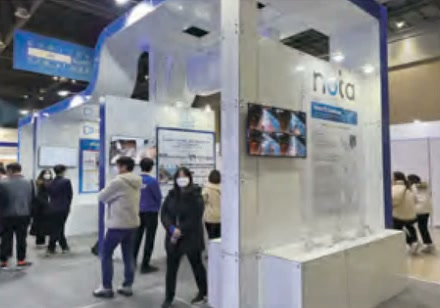
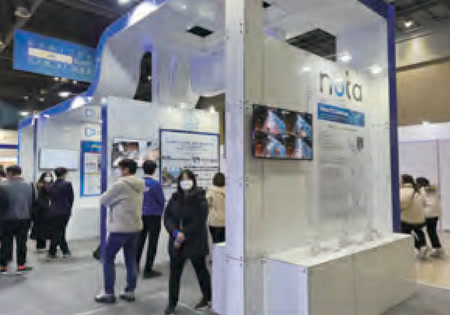
이미지를 형 원본 해상도로 교체 (상단 배너, Projects, 사업분야 카드, 전시 사진)

diff --git a/index.html b/index.html
@@ -13,8 +13,8 @@
 <link rel="stylesheet" href="https://cdn.jsdelivr.net/gh/orioncactus/pretendard@v1.3.9/dist/web/variable/pretendardvariable.css">
 <link rel="preconnect" href="https://fonts.googleapis.com">
 <link rel="stylesheet" href="https://fonts.googleapis.com/css2?family=DM+Sans:opsz,wght@9..40,400..800&display=swap">
-<link rel="stylesheet" href="style.css?v=202611200904">
-<link rel="stylesheet" href="feel.css?v=202611200904">
+<link rel="stylesheet" href="style.css?v=202611200909">
+<link rel="stylesheet" href="feel.css?v=202611200909">
 </head>
 <body>
 
@@ -165,9 +165,9 @@
     <div class="slider">
       <div class="track">
         <a class="pcard" href="program01.html"><div class="ph"><img src="assets/biz_aisw2.jpg" alt="" style="object-position:96% 50%"></div><span><small>BUSINESS AREA</small>AI·SW교육</span><b class="circ"><i class="chev"></i></b></a>
-        <a class="pcard" href="program03.html"><div class="ph"><img src="assets/biz_creative.jpg" alt="" style="object-position:50% 50%"></div><span><small>BUSINESS AREA</small>창의융합 진로·진학 교육</span><b class="circ"><i class="chev"></i></b></a>
+        <a class="pcard" href="program03.html"><div class="ph"><img src="assets/biz_creative.jpg?v=r2" alt="" style="object-position:50% 50%"></div><span><small>BUSINESS AREA</small>창의융합 진로·진학 교육</span><b class="circ"><i class="chev"></i></b></a>
         <a class="pcard" href="program04.html"><div class="ph"><img src="assets/biz_compass_v.jpg" alt="" style="object-position:50% 62%"></div><span><small>BUSINESS AREA</small>Edu Camp&amp;Festa/진로박람회</span><b class="circ"><i class="chev"></i></b></a>
-        <a class="pcard" href="program02.html"><div class="ph"><img src="assets/biz_public_sq.jpg" alt="" class="fitw"></div><span><small>BUSINESS AREA</small>교육분야 공공서비스</span><b class="circ"><i class="chev"></i></b></a>
+        <a class="pcard" href="program02.html"><div class="ph"><img src="assets/biz_public_sq.jpg?v=r2" alt="" class="fitw"></div><span><small>BUSINESS AREA</small>교육분야 공공서비스</span><b class="circ"><i class="chev"></i></b></a>
       </div>
     </div>
     <div class="ctrl"><div class="dots"></div><div class="arrows"><button class="prev" aria-label="이전"><i class="chev l"></i></button><button class="next" aria-label="다음"><i class="chev"></i></button></div></div>
@@ -177,8 +177,8 @@
   <section class="wrap block">
     <div class="head rv"><div><p class="eyebrow">PROJECTS</p><h2>Projects</h2></div><a class="more" href="community02.html">홍보자료 보기<span class="circ"><i class="chev"></i></span></a></div>
     <div class="stories">
-      <a class="story big rv" href="https://kiumin.cafe24.com/default/community/community02.php?com_board_basic=read_form&amp;com_board_idx=12&amp;sub=02&amp;com_board_id=3" target="_blank" rel="noopener"><div class="ph"><img src="assets/m-op01_ari.jpg" alt="" loading="lazy"></div><div class="txt"><small>PROJECT | 2025</small><h3>2025 디지털 새싹<i class="chev"></i></h3><p>청소년이 디지털 인재로 성장할 수 있도록 돕는 SW·AI 교육</p></div></a>
-      <a class="story big rv" href="https://kiumin.cafe24.com/default/community/community02.php?com_board_basic=read_form&amp;com_board_idx=13&amp;sub=02&amp;com_board_id=3" target="_blank" rel="noopener"><div class="ph"><img src="assets/m-op02_ari2.jpg" alt="" loading="lazy"></div><div class="txt"><small>PROJECT | 2025</small><h3>2025 찾아가는 학교 컨설팅<i class="chev"></i></h3><p>디지털 기반 교육 혁신 실천을 위한 맞춤형 학교 컨설팅</p></div></a>
+      <a class="story big rv" href="https://kiumin.cafe24.com/default/community/community02.php?com_board_basic=read_form&amp;com_board_idx=12&amp;sub=02&amp;com_board_id=3" target="_blank" rel="noopener"><div class="ph"><img src="assets/m-op01_ari.jpg?v=r2" alt="" loading="lazy"></div><div class="txt"><small>PROJECT | 2025</small><h3>2025 디지털 새싹<i class="chev"></i></h3><p>청소년이 디지털 인재로 성장할 수 있도록 돕는 SW·AI 교육</p></div></a>
+      <a class="story big rv" href="https://kiumin.cafe24.com/default/community/community02.php?com_board_basic=read_form&amp;com_board_idx=13&amp;sub=02&amp;com_board_id=3" target="_blank" rel="noopener"><div class="ph"><img src="assets/m-op02_ari2.jpg?v=r2" alt="" loading="lazy"></div><div class="txt"><small>PROJECT | 2025</small><h3>2025 찾아가는 학교 컨설팅<i class="chev"></i></h3><p>디지털 기반 교육 혁신 실천을 위한 맞춤형 학교 컨설팅</p></div></a>
       <a class="story rv" href="program02.html"><div class="ph"><img src="assets/m-op03.jpg" alt="" loading="lazy"></div><div class="txt"><small>PROJECT | 2024</small><h3>2024 지역사회연계직업체험<i class="chev"></i></h3><p>지역 간 진로체험 기회 격차를 해소하기 위한 프로그램</p></div></a>
       <a class="story rv" href="program04.html"><div class="ph"><img src="assets/m-op04.jpg" alt="" loading="lazy"></div><div class="txt"><small>PROJECT | 2024</small><h3>2024 곡성꿈놀자학교 진로박람회<i class="chev"></i></h3><p>관내 초등학생들을 위한 진로체험의 장</p></div></a>
       <a class="story rv" href="program04.html"><div class="ph"><img src="assets/m-op05.jpg" alt="" loading="lazy"></div><div class="txt"><small>PROJECT | 2024</small><h3>2024 AI비전캠프 현장체험학습<i class="chev"></i></h3><p>4차산업 시대 핵심기술인 인공지능 관련 현장체험학습</p></div></a>
@@ -265,7 +265,7 @@
     <a class="dlg-cta" href="https://m.site.naver.com/2dWd8" target="_blank" rel="noopener">AI 교육 플랫폼 · 지금 수강 신청<span class="circ"><i class="ext"></i></span></a>
   </div>
 </dialog>
-<script src="main.js?v=202611200904"></script>
-<script src="hero.js?v=202611200904"></script>
+<script src="main.js?v=202611200909"></script>
+<script src="hero.js?v=202611200909"></script>
 </body>
 </html>

diff --git a/business01.html b/business01.html
@@ -8,9 +8,9 @@
 <link rel="stylesheet" href="https://cdn.jsdelivr.net/gh/orioncactus/pretendard@v1.3.9/dist/web/variable/pretendardvariable.css">
 <link rel="preconnect" href="https://fonts.googleapis.com">
 <link rel="stylesheet" href="https://fonts.googleapis.com/css2?family=DM+Sans:opsz,wght@9..40,400..800&display=swap">
-<link rel="stylesheet" href="style.css?v=202611200904">
-<link rel="stylesheet" href="feel.css?v=202611200904">
-<link rel="stylesheet" href="sub.css?v=202611200904">
+<link rel="stylesheet" href="style.css?v=202611200909">
+<link rel="stylesheet" href="feel.css?v=202611200909">
+<link rel="stylesheet" href="sub.css?v=202611200909">
 </head>
 <body>
 
@@ -65,7 +65,7 @@
 <main id="top">
 
   <section class="sub-hero">
-    <img src="assets/subhero2_business.jpg" alt="">
+    <img src="assets/subhero2_business.jpg?v=r2" alt="">
     <div class="wrap">
       <nav class="crumb" aria-label="현재 위치"><a href="index.html">HOME</a><i></i><span>BUSINESS</span><i></i><span>사업분야</span></nav>
       <p class="en">BUSINESS</p>
@@ -106,8 +106,8 @@
     <div class="biz-h rv"><p class="eyebrow">EVENT &amp; EXHIBITION</p><h2 class="sub-t">전시 행사 / 대행 용역 운영</h2><p class="biz-lead">기업 · 단체 · 기관의 성과확산과 미래 성장을 가속화하는 액셀러레이팅 행사 및 전시회 운영 서비스를 제공합니다.</p></div>
     <p class="ev-cats rv"><span>전시회</span><span>성과공유회</span><span>IR</span><span>기업행사</span><span>교육분야행사</span></p>
     <div class="ev-body">
-    <div class="ev-circles"><figure class="ev-c rv"><div class="ph"><img src="assets/sub_business/ev2/c1.jpg" alt="FINAL DEMO DAY &amp; HOME COMING DAY" loading="lazy"></div><figcaption><small>유튜브 온라인 송출</small><b>FINAL DEMO DAY &amp; HOME COMING DAY</b></figcaption></figure><figure class="ev-c rv"><div class="ph"><img src="assets/sub_business/ev2/c2.jpg" alt="컬쳐테크 Challenge DEMODAY" loading="lazy"></div><figcaption><small>IR 대회운영</small><b>컬쳐테크 Challenge DEMODAY</b></figcaption></figure><figure class="ev-c rv"><div class="ph"><img src="assets/sub_business/ev2/c3.jpg" alt="GDIN 디지털 오픈랩 성과 전시회" loading="lazy"></div><figcaption><small>스케치 영상 제작</small><b>GDIN 디지털 오픈랩 성과 전시회</b></figcaption></figure></div>
-    <div class="ev-grid rv"><div class="ph"><img src="assets/sub_business/ev2/g1.jpg" alt="" loading="lazy"></div><div class="ph"><img src="assets/sub_business/ev2/g2.jpg" alt="" loading="lazy"></div><div class="ph"><img src="assets/sub_business/ev2/g3.jpg" alt="" loading="lazy"></div><div class="ph"><img src="assets/sub_business/ev2/g4.jpg" alt="" loading="lazy"></div><div class="ph"><img src="assets/sub_business/ev2/g5.jpg" alt="" loading="lazy"></div><div class="ph"><img src="assets/sub_business/ev2/g6.jpg" alt="" loading="lazy"></div><div class="ph"><img src="assets/sub_business/ev2/g7.jpg" alt="" loading="lazy"></div><div class="ph"><img src="assets/sub_business/ev2/g8.jpg" alt="" loading="lazy"></div><div class="ph"><img src="assets/sub_business/ev2/g9.jpg" alt="" loading="lazy"></div><div class="ph"><img src="assets/sub_business/ev2/g10.jpg" alt="" loading="lazy"></div><div class="ph"><img src="assets/sub_business/ev2/g11.jpg" alt="" loading="lazy"></div><div class="ph"><img src="assets/sub_business/ev2/g12.jpg" alt="" loading="lazy"></div>
+    <div class="ev-circles"><figure class="ev-c rv"><div class="ph"><img src="assets/sub_business/ev2/c1.jpg?v=r2" alt="FINAL DEMO DAY &amp; HOME COMING DAY" loading="lazy"></div><figcaption><small>유튜브 온라인 송출</small><b>FINAL DEMO DAY &amp; HOME COMING DAY</b></figcaption></figure><figure class="ev-c rv"><div class="ph"><img src="assets/sub_business/ev2/c2.jpg?v=r2" alt="컬쳐테크 Challenge DEMODAY" loading="lazy"></div><figcaption><small>IR 대회운영</small><b>컬쳐테크 Challenge DEMODAY</b></figcaption></figure><figure class="ev-c rv"><div class="ph"><img src="assets/sub_business/ev2/c3.jpg?v=r2" alt="GDIN 디지털 오픈랩 성과 전시회" loading="lazy"></div><figcaption><small>스케치 영상 제작</small><b>GDIN 디지털 오픈랩 성과 전시회</b></figcaption></figure></div>
+    <div class="ev-grid rv"><div class="ph"><img src="assets/sub_business/ev2/g1.jpg?v=r2" alt="" loading="lazy"></div><div class="ph"><img src="assets/sub_business/ev2/g2.jpg?v=r2" alt="" loading="lazy"></div><div class="ph"><img src="assets/sub_business/ev2/g3.jpg?v=r2" alt="" loading="lazy"></div><div class="ph"><img src="assets/sub_business/ev2/g4.jpg?v=r2" alt="" loading="lazy"></div><div class="ph"><img src="assets/sub_business/ev2/g5.jpg?v=r2" alt="" loading="lazy"></div><div class="ph"><img src="assets/sub_business/ev2/g6.jpg?v=r2" alt="" loading="lazy"></div><div class="ph"><img src="assets/sub_business/ev2/g7.jpg?v=r2" alt="" loading="lazy"></div><div class="ph"><img src="assets/sub_business/ev2/g8.jpg?v=r2" alt="" loading="lazy"></div><div class="ph"><img src="assets/sub_business/ev2/g9.jpg?v=r2" alt="" loading="lazy"></div><div class="ph"><img src="assets/sub_business/ev2/g10.jpg?v=r2" alt="" loading="lazy"></div><div class="ph"><img src="assets/sub_business/ev2/g11.jpg?v=r2" alt="" loading="lazy"></div><div class="ph"><img src="assets/sub_business/ev2/g12.jpg?v=r2" alt="" loading="lazy"></div>
     </div></div>
   </section>
 
@@ -146,6 +146,6 @@
 
 
 
-<script src="main.js?v=202611200904"></script>
+<script src="main.js?v=202611200909"></script>
 </body>
 </html>

diff --git a/program03.html b/program03.html
@@ -8,9 +8,9 @@
 <link rel="stylesheet" href="https://cdn.jsdelivr.net/gh/orioncactus/pretendard@v1.3.9/dist/web/variable/pretendardvariable.css">
 <link rel="preconnect" href="https://fonts.googleapis.com">
 <link rel="stylesheet" href="https://fonts.googleapis.com/css2?family=DM+Sans:opsz,wght@9..40,400..800&display=swap">
-<link rel="stylesheet" href="style.css?v=202611200904">
-<link rel="stylesheet" href="feel.css?v=202611200904">
-<link rel="stylesheet" href="sub.css?v=202611200904">
+<link rel="stylesheet" href="style.css?v=202611200909">
+<link rel="stylesheet" href="feel.css?v=202611200909">
+<link rel="stylesheet" href="sub.css?v=202611200909">
 </head>
 <body>
 
@@ -65,7 +65,7 @@
 <main id="top">
 
   <section class="sub-hero">
-    <img src="assets/subhero2_program.jpg" alt="">
+    <img src="assets/subhero2_program.jpg?v=r2" alt="">
     <div class="wrap">
       <nav class="crumb" aria-label="현재 위치"><a href="index.html">HOME</a><i></i><span>PROGRAM</span><i></i><span>창의융합 진로·진학 교육</span></nav>
       <p class="en">PROGRAM</p>
@@ -90,7 +90,7 @@
         <p class="p-sub">체험형 교육</p>
         <p class="p-desc">개인별 흥미와 적성을 기반으로 체험형 진로 탐색과 데이터 중심 진학설계 등 자기주도형 미래 로드맵 수립을 지원합니다.</p>
       </div>
-      <div class="p-ph rv"><img src="assets/biz_creative.jpg" alt=""></div>
+      <div class="p-ph rv"><img src="assets/biz_creative.jpg?v=r2" alt=""></div>
     </div>
     <ul class="p-items p-camp"><li class="p-item rv"><span class="p-ic"><svg viewBox="0 0 24 24"><path d="M9 18h6M10 21h4M8 14a6 6 0 1 1 8 0c-.8.7-1 1.6-1 2.5H9c0-.9-.2-1.8-1-2.5z"/></svg></span><div><h3>창의융합체험</h3><p>창의적인 미래진로 설계를 위한 교과연계형 150여가지 프로그램과 180여명의 전문 강사로 구성된 융합형 진로 체험 프로그램</p><p class="tags"><span>#AI·SW체험</span> <span>#인문사회체험</span> <span>#문화예술체험</span></p></div></li><li class="p-item rv"><span class="p-ic"><svg viewBox="0 0 24 24"><path d="M9 3a6 6 0 0 0-3 11.2V21h7v-3h3a2 2 0 0 0 2-2v-3l2-1-2-3.5A6 6 0 0 0 12 3z"/><path d="M10 8h4M12 6v4"/></svg></span><div><h3>AI 진학캠프</h3><p>개인별 생활기록부 데이터를 활용한 입시 트렌드별 전공탐색, 학생부종합전형, 고교학점제 등 AI솔루션 기반 진학 로드맵 설계</p><p class="tags"><span>#학생부종합전형</span> <span>#고교학점제</span></p></div></li><li class="p-item rv"><span class="p-ic"><svg viewBox="0 0 24 24"><circle cx="12" cy="12" r="9"/><path d="M15.5 8.5l-2 5-5 2 2-5z"/></svg></span><div><h3>진로 디자인 캠프</h3><p>학교 자율시간에 활용 가능한 진로 기반 자아탐구 활동과 자기주도학습, 기업가정신, 셀프리더십 등 진로학습법 탐색</p><p class="tags"><span>#진로적성코칭</span> <span>#자기주도학습</span> <span>#미디어리터러시</span></p></div></li></ul>
   </section>
@@ -125,6 +125,6 @@
 
 
 
-<script src="main.js?v=202611200904"></script>
+<script src="main.js?v=202611200909"></script>
 </body>
 </html>

diff --git a/contact01.html b/contact01.html
@@ -8,9 +8,9 @@
 <link rel="stylesheet" href="https://cdn.jsdelivr.net/gh/orioncactus/pretendard@v1.3.9/dist/web/variable/pretendardvariable.css">
 <link rel="preconnect" href="https://fonts.googleapis.com">
 <link rel="stylesheet" href="https://fonts.googleapis.com/css2?family=DM+Sans:opsz,wght@9..40,400..800&display=swap">
-<link rel="stylesheet" href="style.css?v=202611200904">
-<link rel="stylesheet" href="feel.css?v=202611200904">
-<link rel="stylesheet" href="sub.css?v=202611200904">
+<link rel="stylesheet" href="style.css?v=202611200909">
+<link rel="stylesheet" href="feel.css?v=202611200909">
+<link rel="stylesheet" href="sub.css?v=202611200909">
 </head>
 <body>
 
@@ -65,7 +65,7 @@
 <main id="top">
 
   <section class="sub-hero">
-    <img src="assets/subhero2_contact.jpg" alt="">
+    <img src="assets/subhero2_contact.jpg?v=r2" alt="">
     <div class="wrap">
       <nav class="crumb" aria-label="현재 위치"><a href="index.html">HOME</a><i></i><span>CONTACT US</span><i></i><span>1:1문의</span></nav>
       <p class="en">CONTACT US</p>
@@ -144,7 +144,7 @@
 
 
 
-<script src="main.js?v=202611200904"></script>
+<script src="main.js?v=202611200909"></script>
 <script>document.getElementById("cform").addEventListener("submit",e=>{e.preventDefault();const n=document.getElementById("cnote");n.hidden=false;n.scrollIntoView({block:"nearest",behavior:"smooth"});});</script>
 </body>
 </html>

diff --git a/program04.html b/program04.html
@@ -8,9 +8,9 @@
 <link rel="stylesheet" href="https://cdn.jsdelivr.net/gh/orioncactus/pretendard@v1.3.9/dist/web/variable/pretendardvariable.css">
 <link rel="preconnect" href="https://fonts.googleapis.com">
 <link rel="stylesheet" href="https://fonts.googleapis.com/css2?family=DM+Sans:opsz,wght@9..40,400..800&display=swap">
-<link rel="stylesheet" href="style.css?v=202611200904">
-<link rel="stylesheet" href="feel.css?v=202611200904">
-<link rel="stylesheet" href="sub.css?v=202611200904">
+<link rel="stylesheet" href="style.css?v=202611200909">
+<link rel="stylesheet" href="feel.css?v=202611200909">
+<link rel="stylesheet" href="sub.css?v=202611200909">
 </head>
 <body>
 
@@ -65,7 +65,7 @@
 <main id="top">
 
   <section class="sub-hero">
-    <img src="assets/subhero2_program.jpg" alt="">
+    <img src="assets/subhero2_program.jpg?v=r2" alt="">
     <div class="wrap">
       <nav class="crumb" aria-label="현재 위치"><a href="index.html">HOME</a><i></i><span>PROGRAM</span><i></i><span>Edu Camp&amp;Festa/진로박람회</span></nav>
       <p class="en">PROGRAM</p>
@@ -125,6 +125,6 @@
 
 
 
-<script src="main.js?v=202611200904"></script>
+<script src="main.js?v=202611200909"></script>
 </body>
 </html>

diff --git a/program02.html b/program02.html
@@ -8,9 +8,9 @@
 <link rel="stylesheet" href="https://cdn.jsdelivr.net/gh/orioncactus/pretendard@v1.3.9/dist/web/variable/pretendardvariable.css">
 <link rel="preconnect" href="https://fonts.googleapis.com">
 <link rel="stylesheet" href="https://fonts.googleapis.com/css2?family=DM+Sans:opsz,wght@9..40,400..800&display=swap">
-<link rel="stylesheet" href="style.css?v=202611200904">
-<link rel="stylesheet" href="feel.css?v=202611200904">
-<link rel="stylesheet" href="sub.css?v=202611200904">
+<link rel="stylesheet" href="style.css?v=202611200909">
+<link rel="stylesheet" href="feel.css?v=202611200909">
+<link rel="stylesheet" href="sub.css?v=202611200909">
 </head>
 <body>
 
@@ -65,7 +65,7 @@
 <main id="top">
 
   <section class="sub-hero">
-    <img src="assets/subhero2_program.jpg" alt="">
+    <img src="assets/subhero2_program.jpg?v=r2" alt="">
     <div class="wrap">
       <nav class="crumb" aria-label="현재 위치"><a href="index.html">HOME</a><i></i><span>PROGRAM</span><i></i><span>교육분야 공공서비스</span></nav>
       <p class="en">PROGRAM</p>
@@ -125,6 +125,6 @@
 
 
 
-<script src="main.js?v=202611200904"></script>
+<script src="main.js?v=202611200909"></script>
 </body>
 </html>

diff --git a/community01.html b/community01.html
@@ -8,9 +8,9 @@
 <link rel="stylesheet" href="https://cdn.jsdelivr.net/gh/orioncactus/pretendard@v1.3.9/dist/web/variable/pretendardvariable.css">
 <link rel="preconnect" href="https://fonts.googleapis.com">
 <link rel="stylesheet" href="https://fonts.googleapis.com/css2?family=DM+Sans:opsz,wght@9..40,400..800&display=swap">
-<link rel="stylesheet" href="style.css?v=202611200904">
-<link rel="stylesheet" href="feel.css?v=202611200904">
-<link rel="stylesheet" href="sub.css?v=202611200904">
+<link rel="stylesheet" href="style.css?v=202611200909">
+<link rel="stylesheet" href="feel.css?v=202611200909">
+<link rel="stylesheet" href="sub.css?v=202611200909">
 </head>
 <body>
 
@@ -65,7 +65,7 @@
 <main id="top">
 
   <section class="sub-hero">
-    <img src="assets/subhero2_community.jpg" alt="">
+    <img src="assets/subhero2_community.jpg?v=r2" alt="">
     <div class="wrap">
       <nav class="crumb" aria-label="현재 위치"><a href="index.html">HOME</a><i></i><span>COMMUNITY</span><i></i><span>지속가능경영</span></nav>
       <p class="en">COMMUNITY</p>
@@ -124,6 +124,6 @@
 
 
 
-<script src="main.js?v=202611200904"></script>
+<script src="main.js?v=202611200909"></script>
 </body>
 </html>

diff --git a/community02.html b/community02.html
@@ -8,9 +8,9 @@
 <link rel="stylesheet" href="https://cdn.jsdelivr.net/gh/orioncactus/pretendard@v1.3.9/dist/web/variable/pretendardvariable.css">
 <link rel="preconnect" href="https://fonts.googleapis.com">
 <link rel="stylesheet" href="https://fonts.googleapis.com/css2?family=DM+Sans:opsz,wght@9..40,400..800&display=swap">
-<link rel="stylesheet" href="style.css?v=202611200904">
-<link rel="stylesheet" href="feel.css?v=202611200904">
-<link rel="stylesheet" href="sub.css?v=202611200904">
+<link rel="stylesheet" href="style.css?v=202611200909">
+<link rel="stylesheet" href="feel.css?v=202611200909">
+<link rel="stylesheet" href="sub.css?v=202611200909">
 </head>
 <body>
 
@@ -65,7 +65,7 @@
 <main id="top">
 
   <section class="sub-hero">
-    <img src="assets/subhero2_community.jpg" alt="">
+    <img src="assets/subhero2_community.jpg?v=r2" alt="">
     <div class="wrap">
       <nav class="crumb" aria-label="현재 위치"><a href="index.html">HOME</a><i></i><span>COMMUNITY</span><i></i><span>홍보자료</span></nav>
       <p class="en">COMMUNITY</p>
@@ -115,6 +115,6 @@
 
 
 
-<script src="main.js?v=202611200904"></script>
+<script src="main.js?v=202611200909"></script>
 </body>
 </html>

diff --git a/program01.html b/program01.html
@@ -8,9 +8,9 @@
 <link rel="stylesheet" href="https://cdn.jsdelivr.net/gh/orioncactus/pretendard@v1.3.9/dist/web/variable/pretendardvariable.css">
 <link rel="preconnect" href="https://fonts.googleapis.com">
 <link rel="stylesheet" href="https://fonts.googleapis.com/css2?family=DM+Sans:opsz,wght@9..40,400..800&display=swap">
-<link rel="stylesheet" href="style.css?v=202611200904">
-<link rel="stylesheet" href="feel.css?v=202611200904">
-<link rel="stylesheet" href="sub.css?v=202611200904">
+<link rel="stylesheet" href="style.css?v=202611200909">
+<link rel="stylesheet" href="feel.css?v=202611200909">
+<link rel="stylesheet" href="sub.css?v=202611200909">
 </head>
 <body>
 
@@ -65,7 +65,7 @@
 <main id="top">
 
   <section class="sub-hero">
-    <img src="assets/subhero2_program.jpg" alt="">
+    <img src="assets/subhero2_program.jpg?v=r2" alt="">
     <div class="wrap">
       <nav class="crumb" aria-label="현재 위치"><a href="index.html">HOME</a><i></i><span>PROGRAM</span><i></i><span>AI·SW 교육</span></nav>
       <p class="en">PROGRAM</p>
@@ -125,6 +125,6 @@
 
 
 
-<script src="main.js?v=202611200904"></script>
+<script src="main.js?v=202611200909"></script>
 </body>
 </html>

diff --git a/company01.html b/company01.html
@@ -8,9 +8,9 @@
 <link rel="stylesheet" href="https://cdn.jsdelivr.net/gh/orioncactus/pretendard@v1.3.9/dist/web/variable/pretendardvariable.css">
 <link rel="preconnect" href="https://fonts.googleapis.com">
 <link rel="stylesheet" href="https://fonts.googleapis.com/css2?family=DM+Sans:opsz,wght@9..40,400..800&display=swap">
-<link rel="stylesheet" href="style.css?v=202611200904">
-<link rel="stylesheet" href="feel.css?v=202611200904">
-<link rel="stylesheet" href="sub.css?v=202611200904">
+<link rel="stylesheet" href="style.css?v=202611200909">
+<link rel="stylesheet" href="feel.css?v=202611200909">
+<link rel="stylesheet" href="sub.css?v=202611200909">
 </head>
 <body>
 
@@ -65,7 +65,7 @@
 <main id="top">
 
   <section class="sub-hero">
-    <img src="assets/subhero2_about.jpg" alt="">
+    <img src="assets/subhero2_about.jpg?v=r2" alt="">
     <div class="wrap">
       <nav class="crumb" aria-label="현재 위치"><a href="index.html">HOME</a><i></i><span>ABOUT US</span><i></i><span>회사개요</span></nav>
       <p class="en">ABOUT US</p>
@@ -155,6 +155,6 @@
 
 
 
-<script src="main.js?v=202611200904"></script>
+<script src="main.js?v=202611200909"></script>
 </body>
 </html>

diff --git a/company03.html b/company03.html
@@ -8,9 +8,9 @@
 <link rel="stylesheet" href="https://cdn.jsdelivr.net/gh/orioncactus/pretendard@v1.3.9/dist/web/variable/pretendardvariable.css">
 <link rel="preconnect" href="https://fonts.googleapis.com">
 <link rel="stylesheet" href="https://fonts.googleapis.com/css2?family=DM+Sans:opsz,wght@9..40,400..800&display=swap">
-<link rel="stylesheet" href="style.css?v=202611200904">
-<link rel="stylesheet" href="feel.css?v=202611200904">
-<link rel="stylesheet" href="sub.css?v=202611200904">
+<link rel="stylesheet" href="style.css?v=202611200909">
+<link rel="stylesheet" href="feel.css?v=202611200909">
+<link rel="stylesheet" href="sub.css?v=202611200909">
 </head>
 <body>
 
@@ -65,7 +65,7 @@
 <main id="top">
 
   <section class="sub-hero">
-    <img src="assets/subhero2_about.jpg" alt="">
+    <img src="assets/subhero2_about.jpg?v=r2" alt="">
     <div class="wrap">
       <nav class="crumb" aria-label="현재 위치"><a href="index.html">HOME</a><i></i><span>ABOUT US</span><i></i><span>주요연혁</span></nav>
       <p class="en">ABOUT US</p>
@@ -122,6 +122,6 @@
 
 
 
-<script src="main.js?v=202611200904"></script>
+<script src="main.js?v=202611200909"></script>
 </body>
 </html>

diff --git a/company04.html b/company04.html
@@ -8,9 +8,9 @@
 <link rel="stylesheet" href="https://cdn.jsdelivr.net/gh/orioncactus/pretendard@v1.3.9/dist/web/variable/pretendardvariable.css">
 <link rel="preconnect" href="https://fonts.googleapis.com">
 <link rel="stylesheet" href="https://fonts.googleapis.com/css2?family=DM+Sans:opsz,wght@9..40,400..800&display=swap">
-<link rel="stylesheet" href="style.css?v=202611200904">
-<link rel="stylesheet" href="feel.css?v=202611200904">
-<link rel="stylesheet" href="sub.css?v=202611200904">
+<link rel="stylesheet" href="style.css?v=202611200909">
+<link rel="stylesheet" href="feel.css?v=202611200909">
+<link rel="stylesheet" href="sub.css?v=202611200909">
 </head>
 <body>
 
@@ -65,7 +65,7 @@
 <main id="top">
 
   <section class="sub-hero">
-    <img src="assets/subhero2_about.jpg" alt="">
+    <img src="assets/subhero2_about.jpg?v=r2" alt="">
     <div class="wrap">
       <nav class="crumb" aria-label="현재 위치"><a href="index.html">HOME</a><i></i><span>ABOUT US</span><i></i><span>오시는길</span></nav>
       <p class="en">ABOUT US</p>
@@ -126,6 +126,6 @@
 
 
 
-<script src="main.js?v=202611200904"></script>
+<script src="main.js?v=202611200909"></script>
 </body>
 </html>
